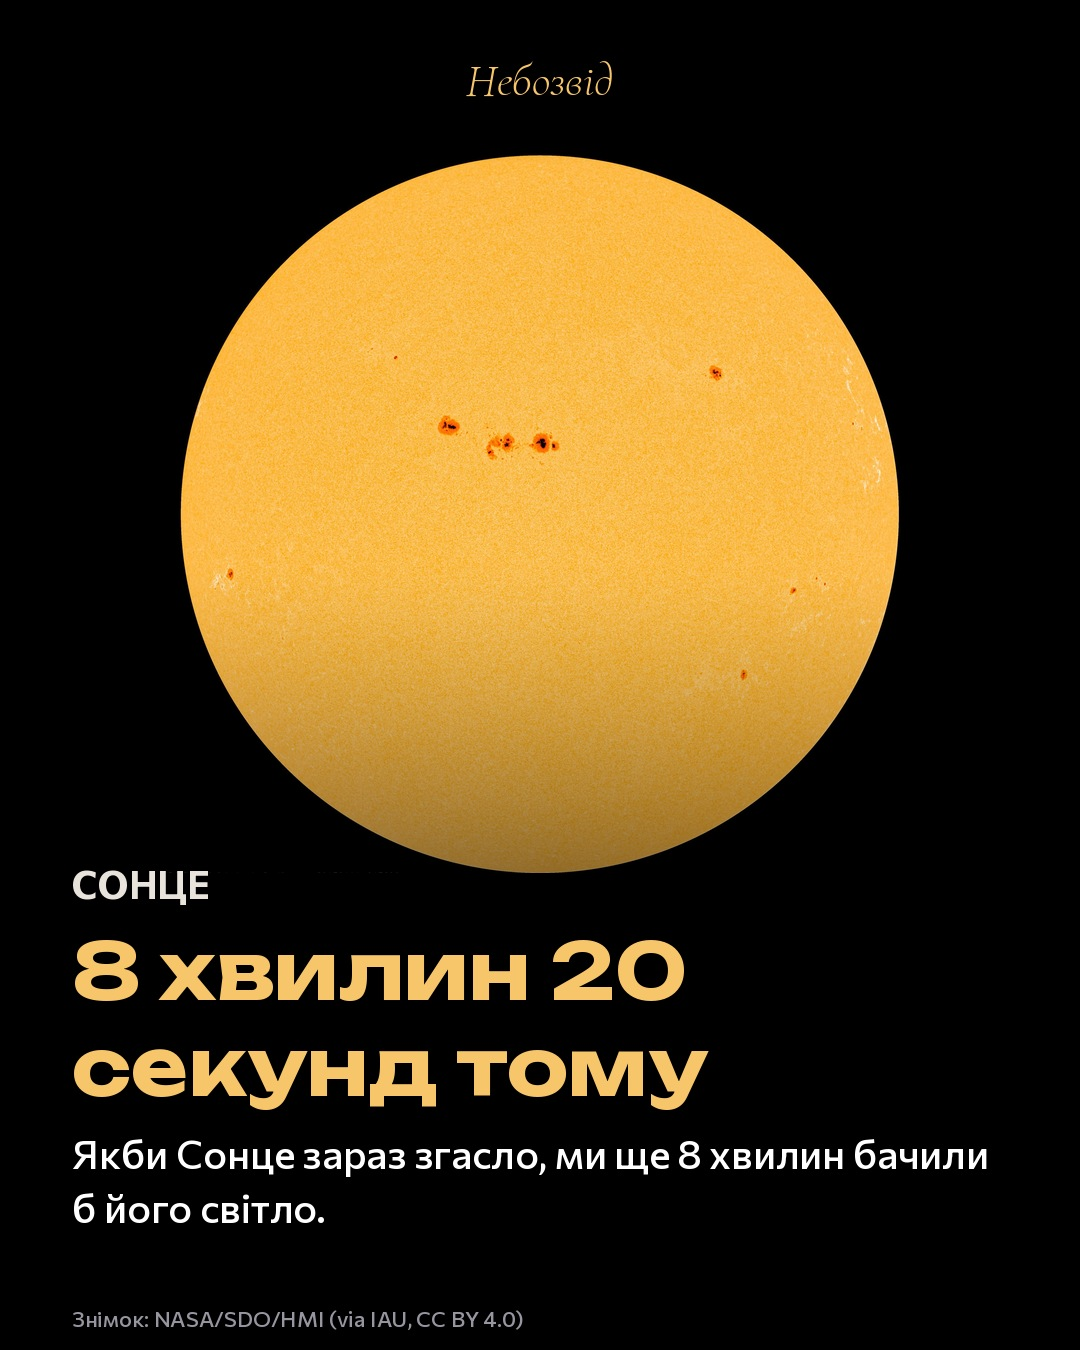
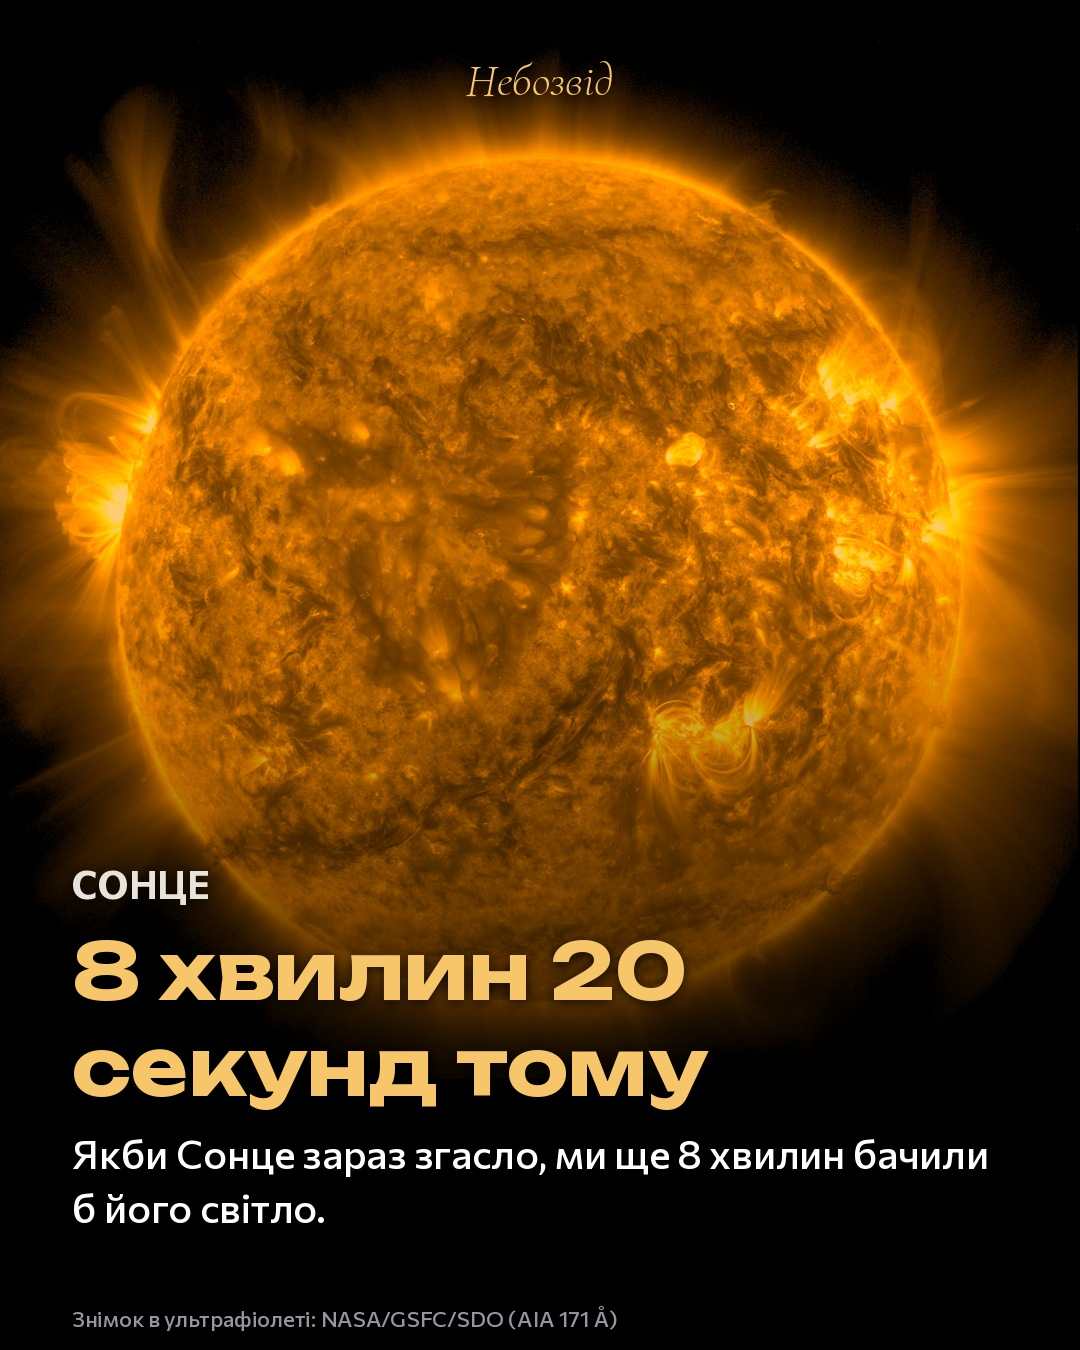
Carousel: dramatic SDO/AIA Sun slide
Claude-Session: https://claude.ai/code/session_01RfjZRMMabiYMYRSbuRXySD

diff --git a/videos/carousels/light_past/make.py b/videos/carousels/light_past/make.py
@@ -60,6 +60,14 @@ def slide(n, img, name, big, body, credit):
     d.text((L, H - 46), credit, font=fc(22, 500), fill=DIM)
     im.save(os.path.join(HERE, f'slide_{n}.jpg'), quality=93); print(n, 'end y', y)
 
+def sun_img():
+    im = fit('sun_aia.jpg', 1080, 560)
+    a = np.asarray(im).astype(np.float32) / 255
+    a = np.clip((a - 0.02) * 1.35, 0, 1) ** 0.85          # яскравіше й контрастніше
+    r, g, b = a[..., 0], a[..., 1], a[..., 2]
+    a = np.stack([np.clip(r * 1.05, 0, 1), g * 0.80, b * 0.45], -1)   # тепліший, ближче до оранжевого
+    return Image.fromarray((a * 255).astype(np.uint8))
+
 # 1 — обкладинка
 im = bg('milkyway.jpg', 0.5, 0.5, 1.7); d = ImageDraw.Draw(im); logo(im)
 y = 830
@@ -74,8 +82,8 @@ im.save(os.path.join(HERE, 'slide_1.jpg'), quality=93); print(1, y)
 
 slide(2, bg('moon.jpg', 0.5, 0.40, 0.92), 'Місяць', '1,3 секунди тому',
       'Найближчий сусід. Навіть його світло трохи запізнюється.', 'Фото: Gregory H. Revera (CC BY-SA 3.0, Wikimedia Commons)')
-slide(3, bg(None, img=fit('sun.jpg', 760, 510)), 'Сонце', '8 хвилин 20 секунд тому',
-      'Якби Сонце зараз згасло, ми ще 8 хвилин бачили б його світло.', 'Знімок: NASA/SDO/HMI (via IAU, CC BY 4.0)')
+slide(3, bg(None, img=sun_img()), 'Сонце', '8 хвилин 20 секунд тому',
+      'Якби Сонце зараз згасло, ми ще 8 хвилин бачили б його світло.', 'Знімок в ультрафіолеті: NASA/GSFC/SDO (AIA 171 Å)')
 slide(4, bg('jupiter.jpg', 0.5, 0.40, 1.0), 'Юпітер', '~44 хвилини тому',
       'Саме стільки летить світло цими днями. Залежно від того, де Юпітер на орбіті, — від 35 до 52 хвилин.', 'Знімок: NASA, ESA, A. Simon (GSFC), M. H. Wong (UC Berkeley), OPAL (CC BY 4.0)')
 slide(5, bg('pleiades.jpg', 0.5, 0.42, 1.0), 'Плеяди', '~440 років тому',

diff --git a/videos/carousels/light_past/posts.md b/videos/carousels/light_past/posts.md
@@ -22,7 +22,7 @@
 ## Ліцензії знімків
 - Чумацький Шлях: ESO/S. Brunier, CC BY 4.0 (eso0932a)
 - Місяць: Gregory H. Revera, CC BY-SA 3.0 (Wikimedia Commons, FullMoon2010.jpg)
-- Сонце: NASA/SDO/HMI via IAU (iau1508d), CC BY 4.0
+- Сонце: NASA/GSFC/SDO, AIA 171 Å (PIA26681), Public Domain; колір підсилено
 - Юпітер: NASA, ESA, A. Simon (GSFC), M. H. Wong (UC Berkeley), OPAL — heic2017a, CC BY 4.0
 - Плеяди: NASA, ESA, AURA/Caltech, Palomar Observatory — Public Domain (Wikimedia Commons, Pleiades_large.jpg)
 - Туманність Оріона: NASA, ESA, M. Robberto (STScI/ESA), Hubble Orion Treasury Project — heic0601a, CC BY 4.0
